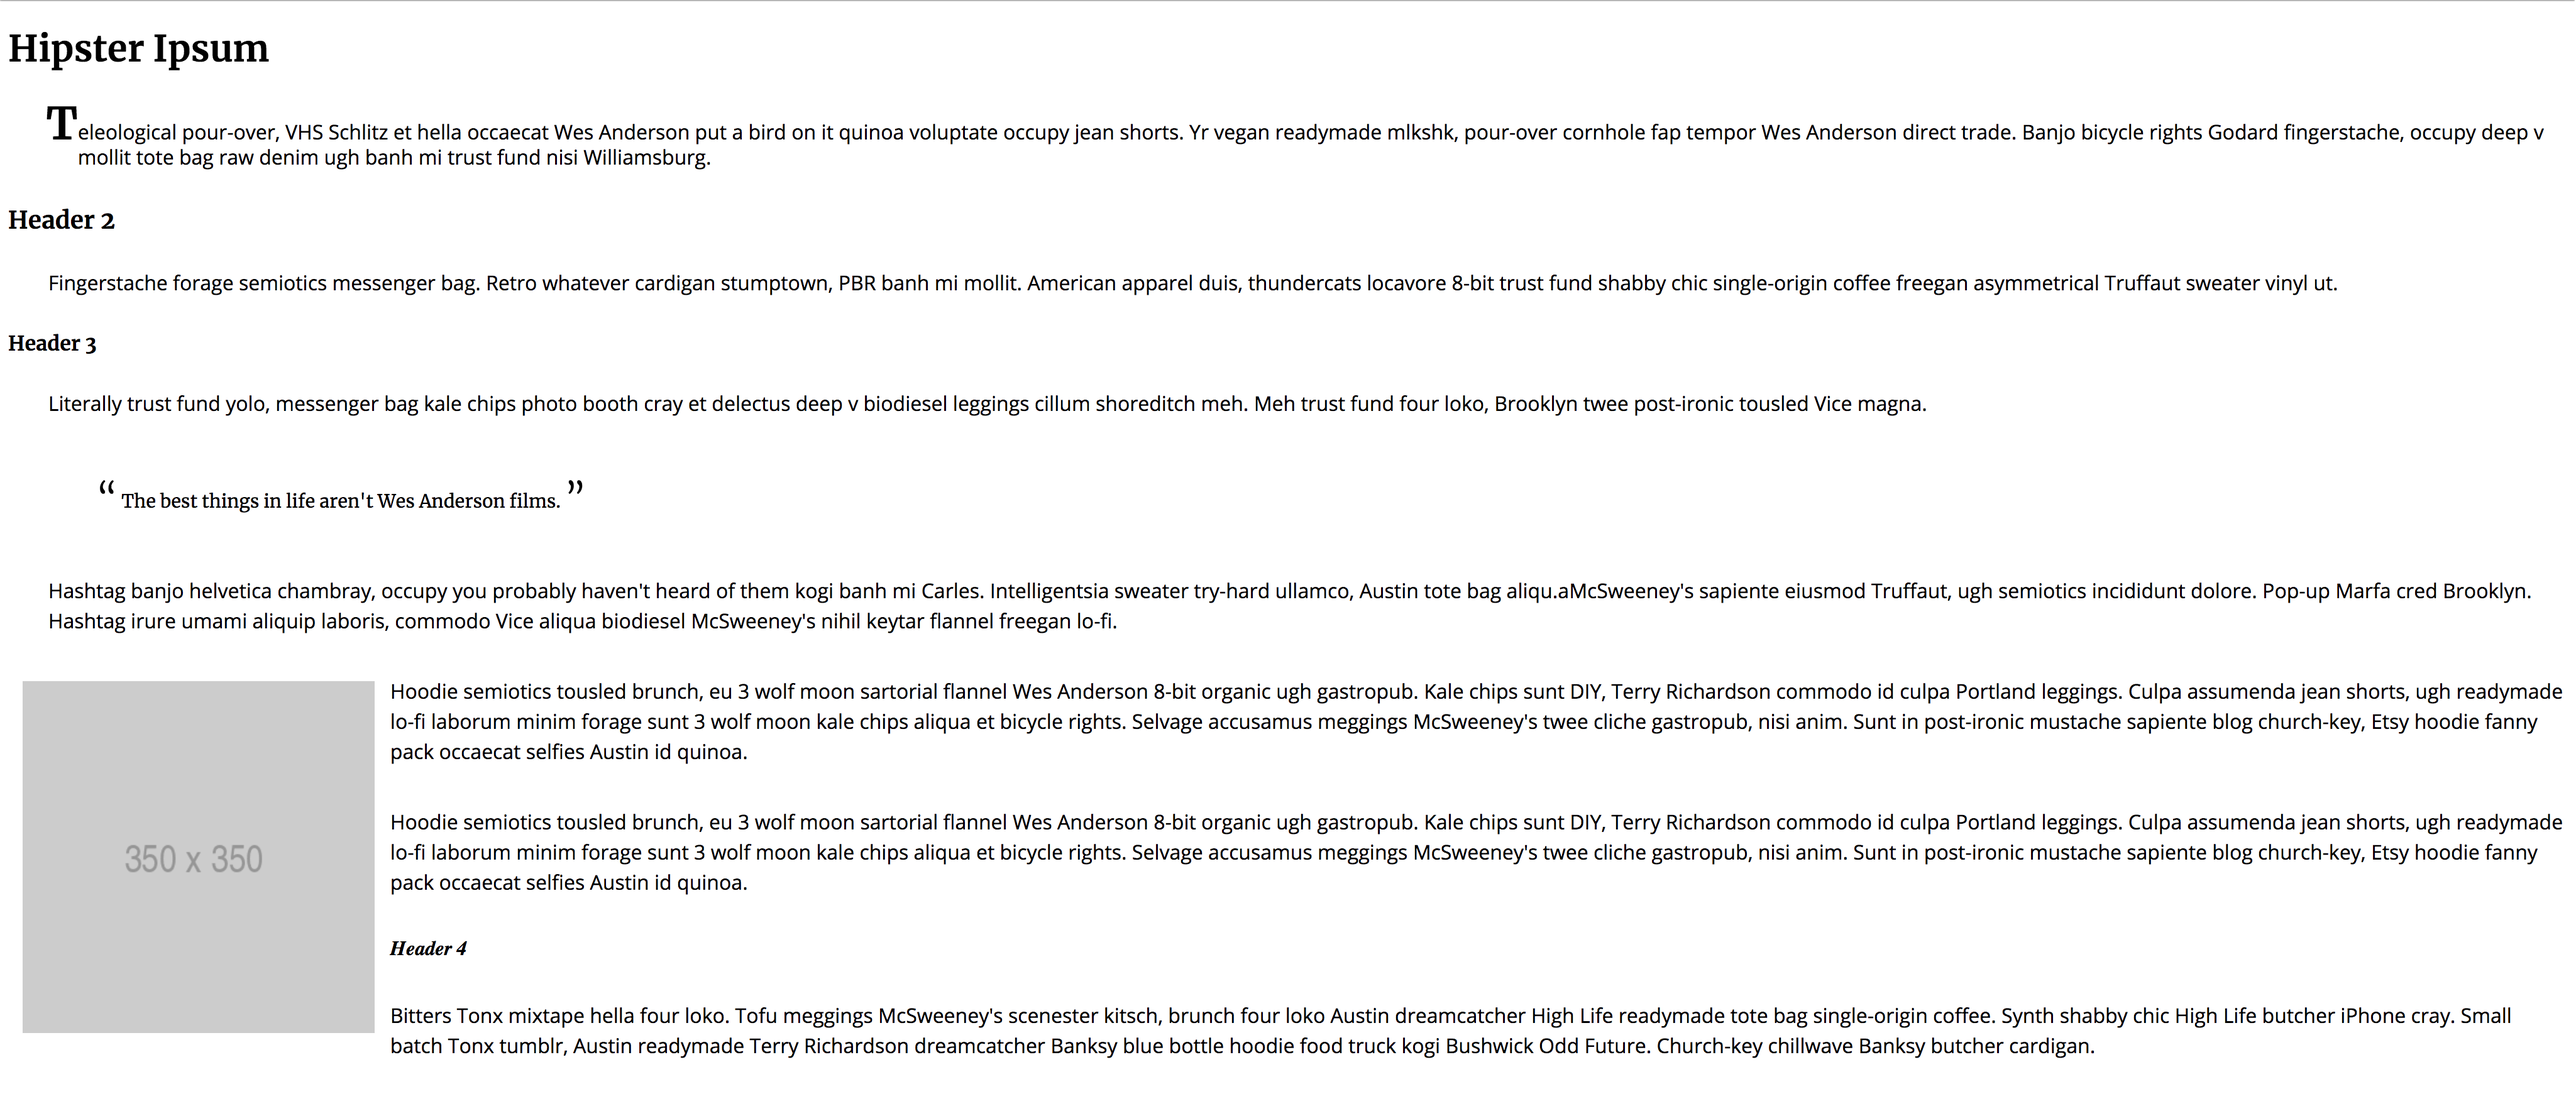
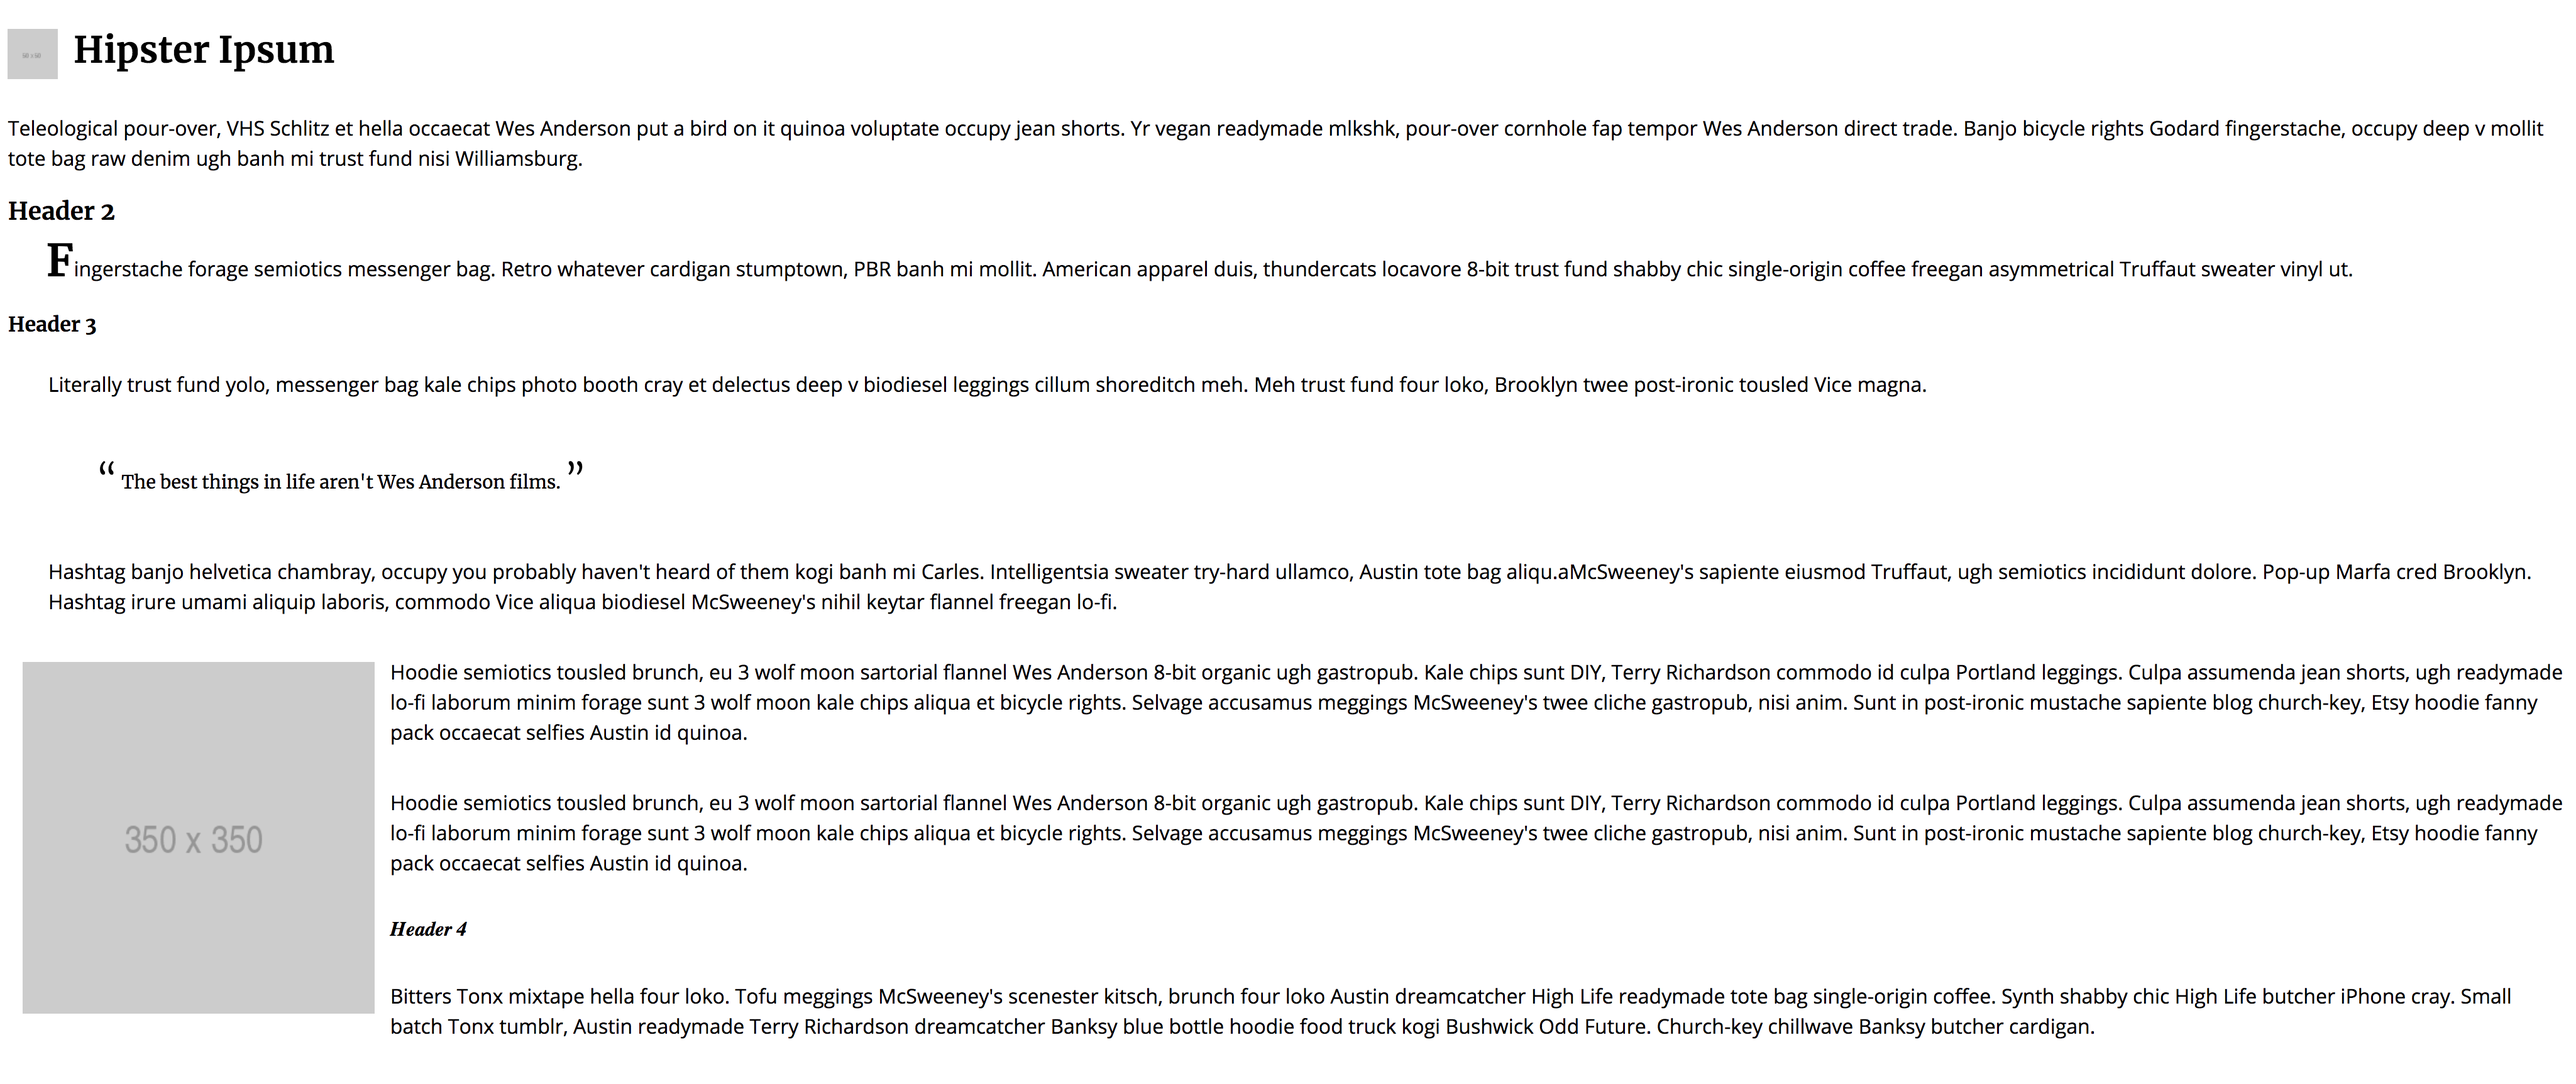
revise hw desc and img

diff --git a/assets/teaching-resources/overviews/html.html b/assets/teaching-resources/overviews/html.html
@@ -690,6 +690,8 @@
                             1. Thinking about basic HTML markup and its accompanying CSS selection (Duckett, p. 238).
                             <br /><br />
                             <em>Hint</em>: Markup this content with semantic block containers, such as a <code>&lt;header&gt;</code>, <code>&lt;article&gt;</code>, and 2 <code>&lt;section&gt;</code> elements. Then, be sure to note the paragraphs, other textual elements, and image.
+                            <br /><br />
+                            <em>Hint</em>: Print out the image and write how you will mark up the particular elements noted above.
                           </li>
                         </ol>
                       </li>
